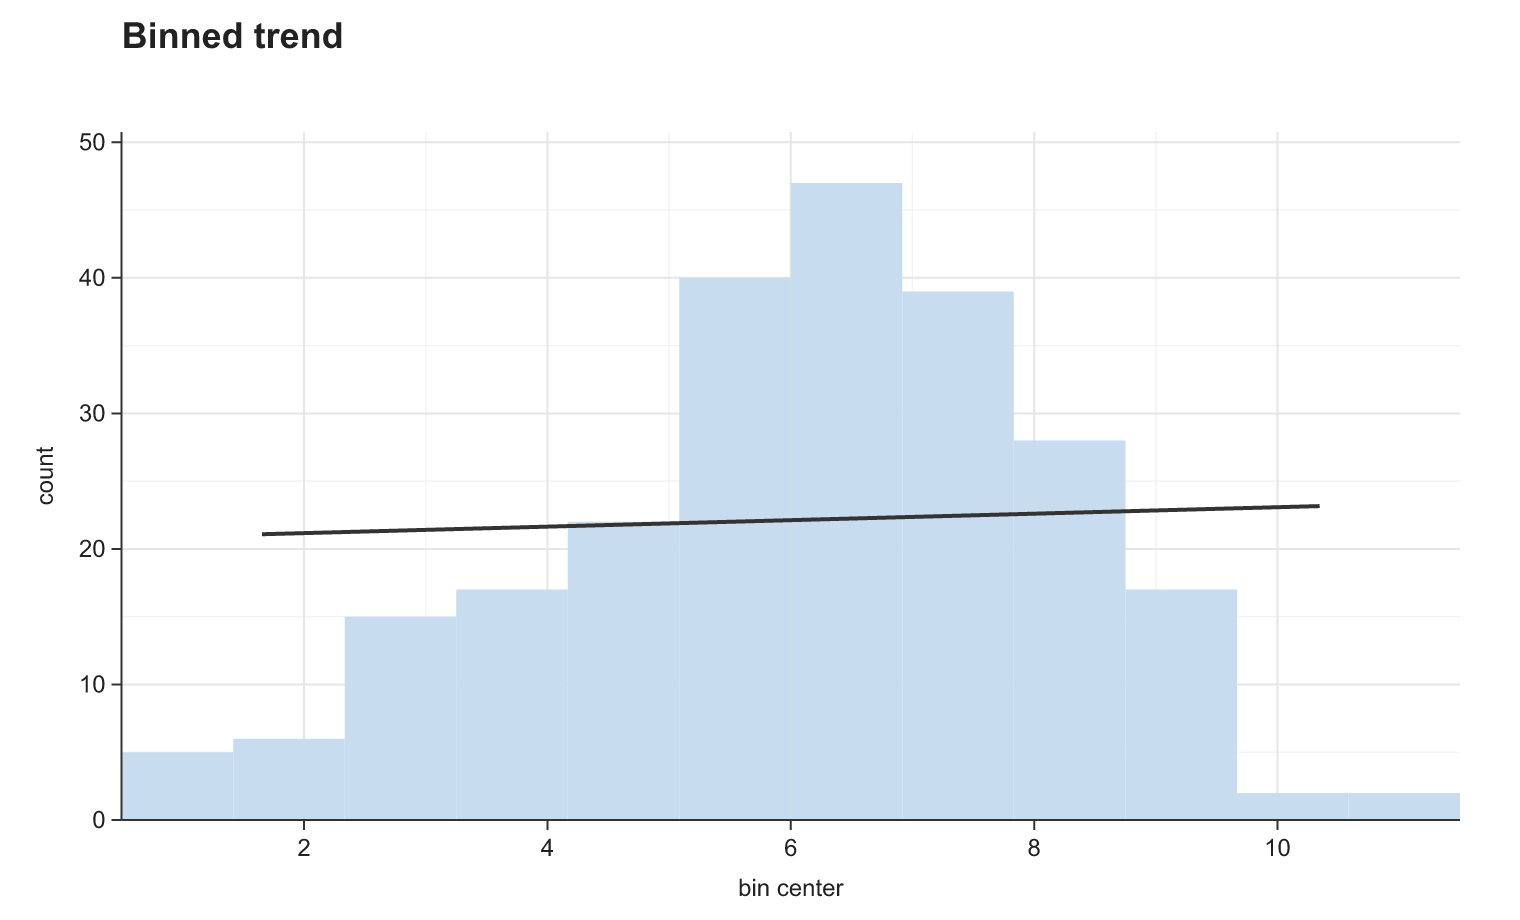
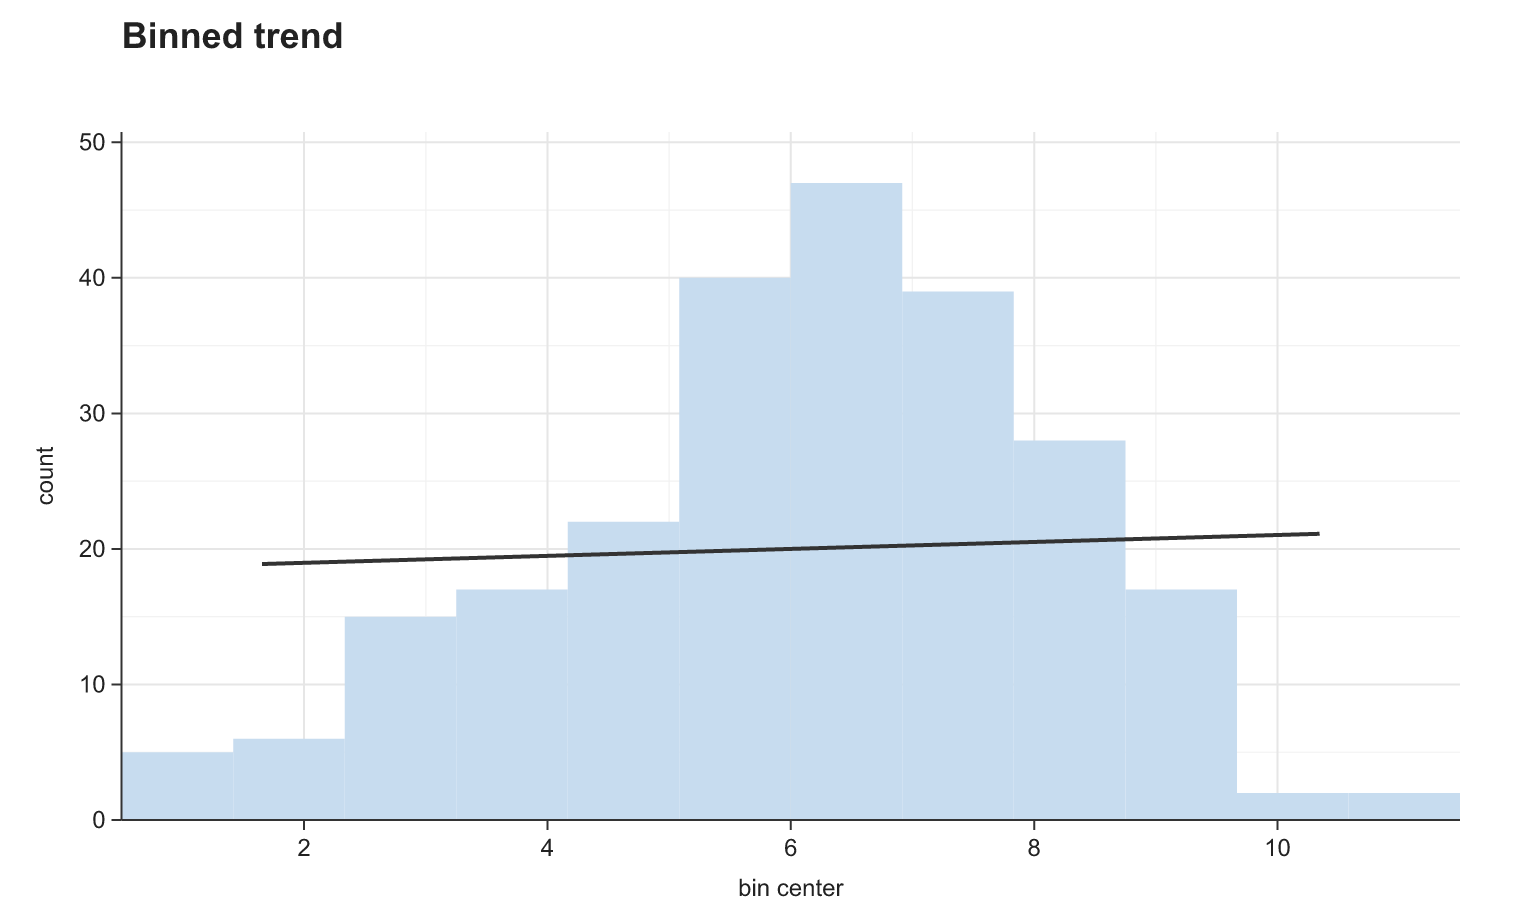
v0.78.0

Changed region(s): [[0.1855, 0.5478, 0.8658, 0.6391]]

diff --git a/crates/algraf-render/tests/render.rs b/crates/algraf-render/tests/render.rs
@@ -2745,6 +2745,59 @@ fn test_named_table_overlay_shares_position_scale() {
 }
 
 #[test]
+fn test_named_table_overlay_shares_zero_baseline() {
+    // A zero-baseline Area overlays a named-table Point layer carrying the
+    // same values. The area's zero requirement must propagate to the secondary
+    // space so both train the identical y domain — otherwise the secondary
+    // space pads below zero and every mark lands a padding's worth too low
+    // (spec §17.5). With the shared baseline, each point sits exactly on the
+    // area's top edge.
+    let result = render_result_with_tables(
+        "Chart(data: \"p.csv\") { Table t2 = \"s.csv\" Space(x * y) { Area(fill: series, layout: \"stack\") } Space(x * y2, data: t2) { Point() } }",
+        "x,y,series\n1,10,a\n2,20,a\n3,15,a\n",
+        &[("t2", "x,y2\n1,10\n2,20\n3,15\n")],
+    );
+    assert_circles_on_path_vertices(&result.svg, 3);
+}
+
+#[test]
+fn test_named_table_overlay_explicit_domain_governs_joined_scale() {
+    // An explicit chart-level `Scale(axis: y, domain:)` merges into every
+    // overlaid space's config, so the override drives the one joined scale:
+    // both layers honor the same bounds and the marks still coincide
+    // (spec §17.5).
+    let result = render_result_with_tables(
+        "Chart(data: \"p.csv\") { Table t2 = \"s.csv\" Scale(axis: y, domain: [0, 100]) Space(x * y) { Area(fill: series, layout: \"stack\") } Space(x * y2, data: t2) { Point() } }",
+        "x,y,series\n1,10,a\n2,20,a\n3,15,a\n",
+        &[("t2", "x,y2\n1,10\n2,20\n3,15\n")],
+    );
+    assert!(result.svg.contains(">100</text>"));
+    assert_circles_on_path_vertices(&result.svg, 3);
+}
+
+/// Assert every `<circle>` center coincides with a vertex of some `<path>`,
+/// proving the circle layer shares the position scales of the path layer.
+fn assert_circles_on_path_vertices(svg: &str, expected_circles: usize) {
+    let centers: Vec<(&str, &str)> = svg
+        .match_indices("<circle cx=\"")
+        .map(|(i, _)| {
+            let s = &svg[i + 12..];
+            let cx = &s[..s.find('"').unwrap()];
+            let rest = &s[s.find("cy=\"").unwrap() + 4..];
+            let cy = &rest[..rest.find('"').unwrap()];
+            (cx, cy)
+        })
+        .collect();
+    assert_eq!(centers.len(), expected_circles);
+    for (cx, cy) in centers {
+        assert!(
+            svg.contains(&format!("M{cx} {cy} ")) || svg.contains(&format!("L{cx} {cy} ")),
+            "point ({cx}, {cy}) should sit on a path vertex"
+        );
+    }
+}
+
+#[test]
 fn test_wide_y_tick_labels_reserve_more_left_margin() {
     // Guide planning (spec §17.3): the plot's left edge is pushed right to fit
     // the widest y tick label, so a chart with large y values reserves more
@@ -3232,7 +3285,9 @@ fn manual_fill_range_keeps_color_binding_under_stack_reorder() {
     let additions_swatch = legend.find("#1f77b4").expect("additions swatch color");
     let deletions_swatch = legend.find("#8ecae6").expect("deletions swatch color");
     assert!(
-        additions_swatch < additions && additions < deletions_swatch && deletions_swatch < deletions,
+        additions_swatch < additions
+            && additions < deletions_swatch
+            && deletions_swatch < deletions,
         "expected swatch colors interleaved with their own labels: {legend}"
     );
 }

diff --git a/crates/algraf-render/src/domains.rs b/crates/algraf-render/src/domains.rs
@@ -117,6 +117,21 @@ impl AxisDomainHints {
         self.add_temporal(max);
     }
 
+    /// Whether geometry hints require the numeric domain to include zero.
+    pub fn includes_zero(&self) -> bool {
+        self.numeric.include_zero
+    }
+
+    /// Adopt a zero-baseline requirement from an overlaid space (spec §17.5).
+    /// Sharing the requirement makes every overlaid space resolve the same
+    /// padding at zero, so their trained domains stay identical. Locked bounds
+    /// keep their exact values, so the requirement is skipped there.
+    pub fn merge_include_zero(&mut self) {
+        if !self.numeric.hard_min && !self.numeric.hard_max {
+            self.numeric.include_zero = true;
+        }
+    }
+
     /// The numeric extent requested by geometry-specific domain hints, including
     /// a required zero baseline when present.
     pub fn numeric_extent(&self) -> Option<(f64, f64)> {

diff --git a/crates/algraf-render/src/geom/stack.rs b/crates/algraf-render/src/geom/stack.rs
@@ -50,9 +50,9 @@ pub(crate) fn stacked_legend_order(
     }
     let sequences = match geo.kind {
         GeometryKind::Bar => bar_sequences(geo, categories, column, space, table, rows)?,
-        GeometryKind::Area => {
-            area_sequences(geo, aesthetic, categories, column, space, table, rows, scales)?
-        }
+        GeometryKind::Area => area_sequences(
+            geo, aesthetic, categories, column, space, table, rows, scales,
+        )?,
         // A grouped stacked Histogram desugars to pre-stacked `Rect` rows with
         // `stack_lower`/`stack_upper` bounds (spec §14.7).
         GeometryKind::Rect => prestacked_rect_sequences(geo, categories, column, table, rows)?,
@@ -138,7 +138,10 @@ fn area_sequences(
     {
         return None;
     }
-    let value_col = space.y_axis().and_then(|axis| axis.data_column())?.to_string();
+    let value_col = space
+        .y_axis()
+        .and_then(|axis| axis.data_column())?
+        .to_string();
 
     // Aggregate each (category, x) cell exactly as stacking does, then walk the
     // x positions in pixel order emitting each position's visible groups in

diff --git a/crates/algraf-render/src/render/panels.rs b/crates/algraf-render/src/render/panels.rs
@@ -886,6 +886,7 @@ fn facet_frame(frame: &FrameIr) -> Option<(&FrameIr, &ColumnRef)> {
 struct AxisExtent {
     numeric: Option<(f64, f64)>,
     temporal: Option<(i64, i64)>,
+    include_zero: bool,
 }
 
 impl AxisExtent {
@@ -910,6 +911,11 @@ impl AxisExtent {
         if let Some((min, max)) = self.temporal {
             hints.merge_temporal_extent(min, max);
         }
+        // A zero baseline changes domain padding, so it must be shared too or
+        // overlaid spaces train domains that differ by the padding amount.
+        if self.include_zero {
+            hints.merge_include_zero();
+        }
     }
 
     fn add_hints(&mut self, hints: &AxisDomainHints) {
@@ -919,6 +925,7 @@ impl AxisExtent {
         if let Some((min, max)) = hints.temporal_extent() {
             self.add_temporal(min, max);
         }
+        self.include_zero |= hints.includes_zero();
     }
 }
 

diff --git a/docs/V0_78_PLAN.md b/docs/V0_78_PLAN.md
@@ -1,0 +1,119 @@
+# Algraf v0.78.0 Plan
+
+Status: Implemented
+Target version: 0.78.0
+Owner: Algraf maintainers
+Related spec: [`ALGRAF_SPEC.md`](ALGRAF_SPEC.md)
+Predecessor plan: [`V0_77_PLAN.md`](V0_77_PLAN.md)
+Roadmap theme: Overlaid spaces train one shared position-scale domain by
+default, including the zero-baseline padding decision.
+Cross-repo coordination: none required to ship 0.78.0.
+
+## Purpose
+
+Algraf v0.78 closes a gap in the spec §17.5 shared-position-scale union. Since
+0.6.0 the renderer unions continuous and temporal min/max extents across
+compatible overlaid spaces, so a secondary layer backed by a named `Table`
+aligns with the primary layer. But the union carried only the extents — not the
+zero-baseline requirement that geometries like `Bar` and zero-baseline `Area`
+impose on domain padding.
+
+The motivating case is the Social API monthly additions/deletions chart: a
+stacked `Area` from the primary table overlaid with a cloc code-lines `Line`
+from a named table:
+
+```ag
+Space(plot_month * lines) {
+    Area(fill: change_segment, alpha: 0.76, layout: "stack")
+}
+
+Space(snapshot_date * code_lines, data: cloc) {
+    Line(stroke: "#111111", strokeWidth: 1.2)
+    Point(fill: "#111111", size: 1.6)
+}
+```
+
+Both spaces agreed on the unioned y min/max, but only the area space carried
+the zero baseline. The area space therefore trained `[0, max + pad]` (no
+padding below a zero baseline) while the line space trained
+`[-pad, max + pad]` (ordinary symmetric padding). The drawn axis came from the
+zero-pinned space, so the line layer rendered shifted down by the padding
+amount — and authors had to paper over it with a manual
+`Scale(axis: y, domain: [0, 160000])` discovered by observation.
+
+## Release Thesis
+
+Compatible overlaid spaces share one position scale; that is only true if they
+train *identical* domains, not merely overlapping extents. Every input to
+domain resolution that can change the trained result — including the
+zero-baseline padding decision — must be shared across the overlay. The common
+case must be author-free: no manual `Scale(domain:)` should be needed just to
+keep two overlaid layers on one scale.
+
+An explicit chart-level `Scale(axis: …, domain: […])` keeps working as before:
+chart-level scale configs merge into every space, so the override applies to
+the joined scale in all overlaid spaces at once.
+
+## Must
+
+- When any compatible overlaid space requires a numeric axis domain to include
+  zero, every compatible overlaid space sharing that axis adopts the
+  requirement, so all spaces resolve identical padding and train identical
+  domains. Spaces with locked bounds (a `fill`-layout bar, a `Rect`) keep their
+  exact values and do not adopt the requirement.
+  Status: Implemented. `AxisExtent` in `render/panels.rs` unions the
+  `include_zero` hint across spaces and propagates it through
+  `AxisDomainHints::merge_include_zero`, which skips locked bounds.
+
+- Spec §17.5 documents the shared zero-baseline requirement as a 0.78.0
+  normative note.
+  Status: Implemented.
+
+- A renderer regression test proves the secondary layer's marks land exactly on
+  the primary layer's geometry when both plot the same values.
+  Status: Implemented. `test_named_table_overlay_shares_zero_baseline` in
+  `crates/algraf-render/tests/render.rs`; it fails without the renderer change.
+
+- An example exercises the default: a stacked area overlaid with a named-table
+  reference line, no manual y domain.
+  Status: Implemented. `examples/stacked_area_capacity_line.ag` with
+  `examples/fleet_capacity.csv`, wired into `examples/generate.sh` and the
+  README tutorial.
+
+## Deferred
+
+- Sharing locked bounds themselves (e.g. aligning a `fill`-layout bar space
+  with an overlaid unlocked space) stays out of scope; the 0.6.0 rule that a
+  locked bound is never widened by the union is unchanged.
+- Space-local `Scale` declarations remain local to their space; only
+  chart-level scales merge into every overlaid space.
+
+## Validation
+
+Required checks:
+
+```bash
+cargo fmt --all --check
+cargo clippy --workspace --all-targets
+cargo test --workspace
+```
+
+Additional release validation:
+
+- Render the motivating chart without `Scale(axis: y, domain: [0, 160000])` and
+  confirm the cloc line lands on the same y scale as the stacked area.
+- Inspect `examples/stacked_area_capacity_line.png` and confirm the dashed
+  capacity line and the stack share one zero-based y axis.
+
+## Promotion Workflow
+
+When implemented:
+
+1. Update `ALGRAF_SPEC.md` §17.5 shared-position-scale behavior.
+2. Update `Status:` lines in this document as each item lands.
+3. Add the focused renderer test before regenerating examples.
+4. Regenerate and inspect affected examples.
+5. Run the validation commands listed above.
+6. Bump release version stamps to `0.78.0` only when this release plan ships,
+   following the repository's version-promotion requirements.
+7. Begin `V0_79_PLAN.md` for the next release scope.

diff --git a/examples/README.md b/examples/README.md
@@ -1739,6 +1739,37 @@ Chart(
 
 ![stacked_legend_cohorts](stacked_legend_cohorts.svg)
 
+## Overlaying a named-table line on a stacked area
+
+Compatible overlaid spaces train one shared position scale even when they back
+onto different tables: the continuous and temporal extents are unioned, and so
+is the zero-baseline requirement. Here the stacked area pins y at zero, and the
+capacity line from the named `fleet` table adopts the same baseline — both
+layers resolve the identical zero-based y domain with no manual
+`Scale(axis: y, domain: …)`. An explicit chart-level domain, when you do want
+one, applies to the joined scale across every overlaid space.
+
+```algraf
+Chart(data: "area_layouts.csv", width: 760, height: 420, title: "Trips by rider type vs. fleet capacity") {
+    Table fleet = "fleet_capacity.csv"
+    Theme(name: "minimal")
+    Scale(fill: rider_type, palette: "accent", label: "Rider type")
+    Guide(axis: x, label: "Day")
+    Guide(axis: y, label: "Trips")
+
+    Space(day * trips) {
+        Area(fill: rider_type, layout: "stack", alpha: 0.42)
+    }
+
+    Space(day * capacity, data: fleet) {
+        Line(stroke: "#111111", strokeWidth: 1.4, dash: "dashed")
+        Point(fill: "#111111", size: 2)
+    }
+}
+```
+
+![stacked_area_capacity_line](stacked_area_capacity_line.svg)
+
 ## Fill-normalized area layout
 
 `Area(layout: "fill")` normalizes each x-position stack to a share-of-total

diff --git a/docs/ALGRAF_SPEC.md b/docs/ALGRAF_SPEC.md
@@ -1,6 +1,6 @@
 # Algraf Detailed Specification
 
-Status: 0.77.0
+Status: 0.78.0
 Audience: implementers, language designers, runtime engineers, LSP authors, and test authors
 Scope: block-scoped algebraic grammar-of-graphics DSL, single Rust binary, resilient parser, language server, CSV-backed runtime, and SVG renderer
 
@@ -32,7 +32,7 @@ It is written to support implementation without relying on the original chat con
 
 Released version 0.1 behavior is preserved by repository tags.
 
-This working copy is the 0.77.0 specification.
+This working copy is the 0.78.0 specification.
 
 The staged release plans and optional-item audits live under `docs/` as
 `V0_*_PLAN.md` files. The earliest unreleased plan is the active implementation
@@ -7638,6 +7638,19 @@ contributing tables, so the secondary layer aligns with the primary in the
 shared plot area. A bound that a space has locked (a `fill`-layout bar, a `Rect`)
 is not widened by this union.
 
+Version 0.78.0: the zero-baseline requirement participates in that union. When
+any overlaid space requires a numeric axis domain to include zero (a `Bar`, or
+an `Area` with a zero baseline), every compatible overlaid space sharing that
+axis MUST adopt the requirement, so all spaces resolve the same domain padding
+and train identical domains. Without this, a secondary layer whose own data
+does not reach zero pads below zero while the zero-pinned primary does not, and
+the secondary layer's marks render shifted by the padding amount even though
+the unioned min/max extents agree. Spaces with locked bounds keep their exact
+values and do not adopt the requirement. An explicit chart-level
+`Scale(axis: …, domain: […])` continues to apply to every overlaid space's
+config and therefore overrides the shared trained domain in all of them at
+once.
+
 Version 0.8: overlaid **spatial** spaces share one spatial scale (§16.15). The
 renderer MUST union the projected bounding boxes of all spatial spaces and fit
 them once, so a projected `long * lat` point overlay aligns with a `Space(geom)`
@@ -11240,6 +11253,7 @@ specification says `MUST`/`SHOULD` and the implementation provides it.
 | 0.75.0 | [`V0_75_PLAN.md`](V0_75_PLAN.md) | Comprehensive temporal axes: tickInterval, temporal scale type, extended tick ladder, adaptive labels, ingestion hardening | Implemented |
 | 0.76.0 | [`V0_76_PLAN.md`](V0_76_PLAN.md) | Agent language-reference templates and safe root instruction-file initialization | Implemented |
 | 0.77.0 | [`V0_77_PLAN.md`](V0_77_PLAN.md) | Default stacked legend order follows rendered visual stack order | Implemented |
+| 0.78.0 | [`V0_78_PLAN.md`](V0_78_PLAN.md) | Overlaid spaces share the zero-baseline requirement when training position scales | Implemented |
 
 The earliest unreleased plan is the active implementation target; later
 unreleased plans are sequencing guidance and may be revised as earlier refactors